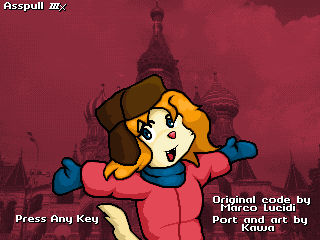
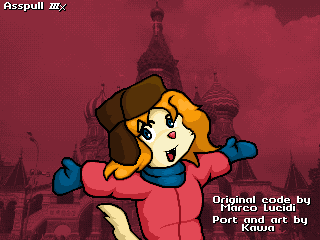
Tetris: add controller check

Changed region(s): [[0.0312, 0.875, 0.3125, 0.9333]]

diff --git a/tetris/main.c b/tetris/main.c
@@ -7,7 +7,7 @@ IBios* interface;
 
 extern const TPicFile title;
 extern const uint16_t tilesTiles[], farahTiles[];
-extern const uint16_t logoTiles[], logo_kotrisTiles[], logobigTiles[], logobig_kotrisTiles[];
+extern const uint16_t logoTiles[], logo_kotrisTiles[], logobigTiles[], logobig_kotrisTiles[], press_startTiles[];
 extern const uint16_t tilesPal[];
 extern const uint16_t backgroundMap[];
 
@@ -83,6 +83,24 @@ static const uint32_t bigLogoB[] = {
 	OBJECTB_BUILD(128, 32, 1, 1, 0, 0, 1, 0),
 	OBJECTB_BUILD(160, 32, 1, 1, 0, 0, 1, 0),
 	0,
+};
+static const uint16_t pressStartA[] = {
+	OBJECTA_BUILD(  0, 0, 1, 1),
+	OBJECTA_BUILD(  8, 0, 1, 1),
+};
+static const uint32_t pressStartB[] = {
+	OBJECTB_BUILD(  0,  0, 1, 0, 0, 0, 1, 0),
+	OBJECTB_BUILD( 32,  0, 1, 0, 0, 0, 1, 0),
+};
+static const uint16_t noControllerA[] = {
+	OBJECTA_BUILD( 24, 0, 1, 1),
+	OBJECTA_BUILD( 32, 0, 1, 1),
+	OBJECTA_BUILD( 40, 0, 1, 1),
+};
+static const uint32_t noControllerB[] = {
+	OBJECTB_BUILD(  0,  0, 1, 0, 0, 0, 1, 0),
+	OBJECTB_BUILD( 32,  0, 1, 0, 0, 0, 1, 0),
+	OBJECTB_BUILD( 64,  0, 1, 0, 0, 0, 1, 0),
 };
 
 const uint8_t * const sounds[] = { 0 };
@@ -174,6 +192,7 @@ int main(void)
 		MISC->DmaCopy(TILESET, (int8_t*)&logobig_kotrisTiles, 1536, DMA_INT);
 	else
 		MISC->DmaCopy(TILESET, (int8_t*)&logobigTiles, 1536, DMA_INT);
+	MISC->DmaCopy(TILESET + 6144, (int8_t*)&press_startTiles, 384, DMA_INT);
 	MISC->DmaCopy(PALETTE + 256, (int16_t*)&tilesPal, 32, DMA_SHORT);
 
 	IMFPlus_Install(NULL);
@@ -182,11 +201,16 @@ int main(void)
 	//WaitForKey();
 	{
 		int i = -64 - 9;
-		while (!INP_KEYIN)
+		while (!INP_JOYPAD1)
 		{
 			DrawObject(bigLogoA, bigLogoB, 16, 0, 69, i);
 			vbl();
 			if (i < 9) i += 2;
+
+			if (INP_JOYSTATES & 3)
+				DrawObject(pressStartA, pressStartB, 1, 192, 16, 211);
+			else
+				DrawObject(noControllerA, noControllerB, 1, 192, 16, 211);
 		}
 	}
 	DRAW->Fade(false, true);
